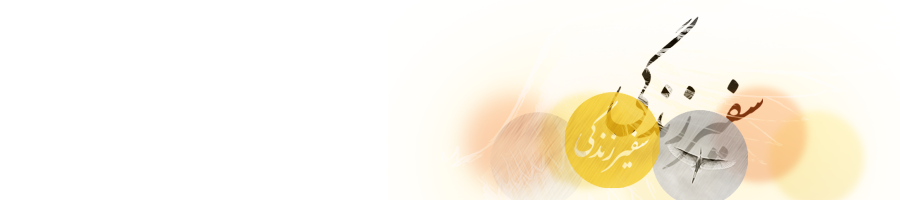
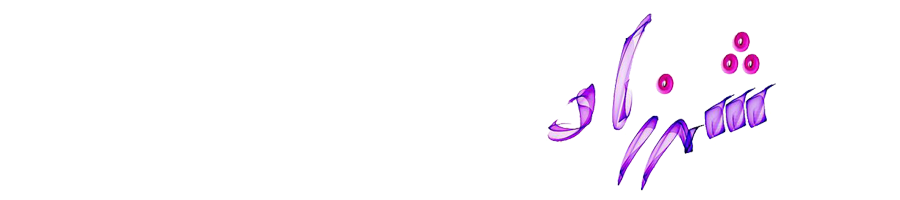
silder

Changed region(s): [[0.4978, 0.06, 0.9644, 1.0]]

diff --git a/admin/slidesList.php b/admin/slidesList.php
@@ -1,0 +1,111 @@
+<?php
+
+require_once '../config/config.php';
+if(!setUserSession(1,1,2))
+{
+    $url = $uri . '/admin/login';
+    header('location: ' . $url);
+    exit;
+}
+$msg = '';
+$ms = '';
+if(isset($_GET['ms']))
+{
+    $ms = $_GET['ms'];
+}
+if(isset($_GET['delID']) && ($_GET['delID'] + 0) > 0)
+{
+    $oneNews = getOnePlanAndNews($_GET['delID'], 1, 1, 1);
+    if($oneNews)
+    {
+        DatabaseHandler::Execute("UPDATE `news` SET `status` = '2' WHERE `news`.`id` = " . $_GET['delID']);
+        $ga = DatabaseHandler::GetAll("SELECT * FROM `gallery` WHERE `catID` =1 AND `gForID` = " . $_GET['delID'] . " AND `status` =1");
+        if($ga)
+        {
+            for($i = 0; $i < count($ga); $i++)
+            {
+                updateOneFieldFromTable('gallery', 'status', 2, $ga[$i]['id']);
+            }
+        }
+        $ms = 1;
+        header('location: newsList?ms=1');
+        exit;
+    }
+    else
+    {
+        header('location: newsList');
+        exit;
+    }
+}
+$news = getAllNewsWithstatus(1);
+if($news)
+{
+    $msg = 1;
+}
+else
+{
+    $msg = 2;
+}
+
+
+include 'header.php';
+
+?>
+
+<script type="text/javascript">
+function confirmDel(id)
+{
+    if(confirm('آیا مایل به حذف این خبر می باشید؟'))
+    {
+        window.location = "<?php echo $uri; ?>/admin/newsList?delID=" + id;
+    }
+}
+</script>
+
+<div class="contentMain" style="min-height: 900px; background: #ECF4FC;">
+    <div style="font-family: 'Yekan'; margin-right: 10px; margin-top: 15px; font-size: 13px;">ویرایش اخبار</div>
+    <div style="width: 100%; height: 2px; background: #E07626; margin-top: 5px;"></div>
+    <br>
+        <!--<div class="alert alert-success" style="font-family: 'Yekan'; width: 60%; margin: 0 auto;">خبر مورد نظر با موفقیت ثبت گردید.</div>-->
+    <?php if($ms == 1){ ?>
+        <div class="alert alert-success" style="font-family: 'Yekan'; width: 60%; margin: 0 auto;">خبر مورد نظر با موفقیت حذف گردید.</div>
+    <?php } ?>
+    <?php if($msg == 2){ ?>
+        <div class="alert alert-danger" style="font-family: 'Yekan'; width: 60%; margin: 0 auto;">تاکنون هیچ خبری درج نگردیده است.</div>
+    <?php } ?>
+    <div style="width: 920px; margin-right: 20px; margin-top: 20px;">
+        <?php if($msg == 1){ ?>
+            <table class="table table-hover" style="direction: rtl;">
+                <thead>
+                  <tr style="direction: rtl;">
+                    <th style="text-align: right; width: 40px;" class="tableExtra">#</th>
+                    <th style="text-align: right; width: 500px;" class="tableExtra">تیتر خبر</th>
+                    <th style="text-align: right; width: 100px;" class="tableExtra">تاریخ درج</th>
+                    <th style="text-align: right; width: 100px;" class="tableExtra">تعداد بازدید</th>
+                    <th style="text-align: right; width: 100px;" class="tableExtra">عملیات</th>
+                  </tr>
+                </thead>
+                <tbody>
+                  <?php $e = 1; for($i = 0; $i < count($news); $i++){ ?>
+                      <tr>
+                        <td style="text-align: right; width: 40px;" class="tableExtra"><?php echo $e; $e++; ?></td>
+                        <td style="text-align: right; width: 500px;" class="tableExtra"><?php echo $news[$i]['title']; ?></td>
+                        <td style="text-align: right; width: 100px;" class="tableExtra"><?php echo pdate('d F Y', $news[$i]['date']); ?></td>
+                        <td style="text-align: right; width: 100px;" class="tableExtra"><?php echo $news[$i]['view']; ?></td>
+                        <td style="text-align: right; width: 100px;" class="tableExtra">
+                            <a href="editOneNews?id=<?php echo $news[$i]['id']; ?>"><img src="images/edit.png" alt="edit" style="cursor: pointer; margin-left: 5px;"></a>
+                            <img src="images/del2.png" alt="del" style="cursor: pointer;" onclick="confirmDel(<?php echo $news[$i]['id']; ?>);">
+                        </td>
+                      </tr>
+                  <?php } ?>
+                </tbody>
+              </table>
+        <?php } ?>
+    </div>
+    
+    
+</div>
+
+
+<?php include 'footer.php'; ?>
+

diff --git a/admin/addSlide.php b/admin/addSlide.php
@@ -1,0 +1,88 @@
+<?php
+
+require_once '../config/config.php';
+if(!setUserSession(1,1,2))
+{
+    $url = $uri . '/admin/login';
+    header('location: ' . $url);
+    exit;
+}
+$msg = '';
+$title = '';
+
+if(isset($_POST['txtTitle']) && strlen($_POST['txtTitle']) > 5 && isset($_FILES['file']))
+{
+    $title = $_POST['txtTitle'];
+    if($_FILES['file']['error'] < 1)
+    {
+        $fileName = $_FILES['file']['name'];
+        $fileTemp = $_FILES['file']['tmp_name'];
+        $ext = explode('.', $fileName);
+        $ext = $ext[count($ext) - 1];
+        $number = time() * (rand(1,10000));
+        $newName = md5($number) . ".$ext";
+        $u = SITE_ROOT . '/images/upload/' . $newName;
+        $url = '/images/upload/' . $newName;
+        move_uploaded_file($fileTemp, $u);
+        $query = "INSERT INTO `slideshow` (`id`, `picture`, `title`) VALUES (NULL, '" . $url . "', '" . $title . "');";
+        if(DatabaseHandler::Execute($query))
+        {
+            $msg = 1; // ok
+        }
+        else
+        {
+            $msg = 2; // insert error
+        }
+    }
+    else
+    {
+        $msg = 3; // file error
+    }
+}
+
+include 'header.php';
+
+?>
+
+
+<div class="contentMain" style="min-height: 900px; background: #ECF4FC;">
+    <div style="font-family: 'Yekan'; margin-right: 10px; margin-top: 15px; font-size: 13px;">افزودن اسلاید</div>
+    <div style="width: 100%; height: 2px; background: #E07626; margin-top: 5px;"></div>
+    <br>
+    <?php if($msg == 1){ ?>
+        <div class="alert alert-success" style="font-family: 'Yekan'; width: 60%; margin: 0 auto;">اسلاید مورد نظر با موفقیت ثبت گردید.</div>
+    <?php }elseif($msg == 2){ ?>
+        <div class="alert alert-danger" style="font-family: 'Yekan'; width: 60%; margin: 0 auto;">خطایی در ثبت اسلاید به وجود آمده است، لطفا دوباره سعی نمائید.</div>
+    <?php }elseif($msg == 3){ ?>
+        <div class="alert alert-danger" style="font-family: 'Yekan'; width: 60%; margin: 0 auto;">گزینه های مشخص شده را به درستی تکمیل نمائید.</div>
+    <?php } ?>
+    <div style="width: 920px; margin-right: 20px; margin-top: 20px;">
+        <form action="" method="post" name="slideForm" enctype="multipart/form-data">
+        <div style="width: 100px; float: right; font-family: 'Nassim'; font-size: 16px; line-height: 25px;">تیتر اسلاید <span style="color: red;">*</span></div>
+        <div style="float: left; width: 820px;">
+            <input type="text" name="txtTitle" class="txtInput" style="font-family: Tahoma; font-size: 12px; width: 400px;" placeholder="تیتر اسلاید" value="<?php echo $title; ?>" />
+        </div>
+            <div style="clear: both; margin-bottom: 10px;"></div>
+
+        <div style="width: 100px; float: right; font-family: 'Nassim'; font-size: 16px; line-height: 25px;">تصویر اسلاید <span style="color: red;">*</span></div>
+        <div style="float: left; width: 820px;">
+            <input type="file" name="file" style="display: none;" id="file" />
+            <button type="button" class="btn btn-success" style="float: right; font-family: 'Yekan';" onclick="$('#file').click();">انتخاب</button>
+            <div style="direction: rtl; font-family: 'Nassim'; font-size: 16px; margin-right: 65px; margin-top: 3px;">توجه: سایز تصویر باید 800px × 230px باشد.</div>
+        </div>
+        <div style="clear: both; margin-bottom: 10px;"></div>
+
+        <div style="clear: both;"></div>
+        </form>
+        <button type="button" class="btn btn-success" style="float: left; font-family: 'Yekan';" onclick="document.slideForm.submit();">ذخیره اسلاید</button>
+    </div>
+    
+    
+</div>
+<script type="text/javascript">
+        var objCal1 = new AMIB.persianCalendar( 'objCal1', 'pcal1' );
+    </script>
+
+
+<?php include 'footer.php'; ?>
+

diff --git a/index.php b/index.php
@@ -2,6 +2,8 @@
 include_once 'config/config.php';
 
 include 'header.php';
+
+$slideshow = DatabaseHandler::GetAll("SELECT * FROM `slideshow` LIMIT 5; ");
 //index
 if(isset($_GET['login']))
 {
@@ -25,6 +27,7 @@ if(isset($_GET['login']))
     });
  </script>
   <!-- Slider -->
+<?php if (count($slideshow)){ ?>
   <div class="up"></div>
   <div class="center">
     <div class="home-slider home-left-slider home-full-slider">
@@ -32,21 +35,22 @@ if(isset($_GET['login']))
         <div class="slide">
           <div id="feature">
             <div id="panes">
-              <div style="display: none;"> <img src="<?php echo $uri; ?>/images/banner1.png" /></div>
-              <div style="display: none;"> <img src="<?php echo $uri; ?>/images/banner2.png" /></div>
-              <div style="display: none;"> <img src="<?php echo $uri; ?>/images/banner3.png" /></div>
+                <?php for ($i = 0; $i < count($slideshow); $i++){ ?>
+                    <div style="display: none;"> <img src="<?php echo $uri . '/' . $slideshow[$i]['picture']; ?>" title="<?php $slideshow[$i]['title'] ?>" /></div>
+                <?php } ?>
             </div>
             <div id="navi">
               <ul>
-                <li><a href="#"><img src="<?php echo $uri; ?>/images/bullets.png" alt="" border="0" width="12" height="12" style="padding: 0px 1px 0px 1px;" /></a></li>
-                <li><a href="#"><img src="<?php echo $uri; ?>/images/bullets.png" alt="" border="0" width="12" height="12" style="padding: 0px 1px 0px 1px;" /></a></li>
-                <li><a href="#"><img src="<?php echo $uri; ?>/images/bullets.png" alt="" border="0" width="12" height="12" style="padding: 0px 1px 0px 1px;" /></a></li>
+                  <?php for ($i = 0; $i < count($slideshow); $i++){ ?>
+                      <li><a href="#"><img src="<?php echo $uri; ?>/images/bullets.png" alt="" border="0" width="12" height="12" style="padding: 0px 1px 0px 1px;" /></a></li>
+                  <?php } ?>
               </ul>
             </div>
           </div>
         </div>
       </div>
     </div>
+      <?php } ?>
   <!-- End Slider -->
   <!-- Center -->
       <div id="text-up"></div>

diff --git a/header.php b/header.php
@@ -8,7 +8,7 @@ $persianDate = pdate('l d F Y');
 <html xmlns="http://www.w3.org/1999/xhtml">
 <head>
 <meta http-equiv="Content-Type" content="text/html; charset=utf-8" />
-<title>پرتال سفیران زندگی</title>
+<title>فروشگاه شهرزاد</title>
 <link href="<?php echo $uri; ?>/images/favicon.ico" rel="shortcut icon" type="images/favicon" />
 <link href="<?php echo $uri; ?>/css/style.css" rel="stylesheet" type="text/css" media="all" />
 <link href="<?php echo $uri; ?>/css/slide_style.css" rel="stylesheet" type="text/css" media="all" />
@@ -31,13 +31,13 @@ $persianDate = pdate('l d F Y');
     <ul>
       <li><a href="<?php echo $uri; ?>/index" class="subLink">صفحه اصلی</a></li>
       |
-      <li><a href="<?php echo $uri; ?>/plans" class="subLink">طرح ها</a></li>
+      <li><a href="<?php echo $uri; ?>/products" class="subLink">محصولات</a></li>
       |
       <li><a href="<?php echo $uri; ?>/galleries" class="subLink">گالری تصاویر</a></li>
       |
-      <li><a href="<?php echo $uri; ?>/about" class="subLink">درباره سفیران زندگی</a></li>
+      <li><a href="<?php echo $uri; ?>/about" class="subLink">درباره فروشگاه</a></li>
       |
-      <li><a href="<?php echo $uri; ?>/contact" class="subLink">تماس با سفیران زندگی</a></li>
+      <li><a href="<?php echo $uri; ?>/contact" class="subLink">تماس باما</a></li>
     </ul>
   </div>
   <!-- End Header -->

diff --git a/admin/header.php b/admin/header.php
@@ -17,7 +17,7 @@ else
 <!DOCTYPE html>
 <html><head>
 <meta http-equiv="Content-Type" content="text/html; charset=utf-8">
-<title>صفحه مدیریت سایت سفیران زندگی</title>
+<title>صفحه مدیریت فروشگاه شهرزاد</title>
 <meta name="viewport" content="width=device-width">
 <link rel="stylesheet" type="text/css" href="css/bootstrap.css">    
 <link rel="stylesheet" type="text/css" href="css/my.css">    
@@ -43,6 +43,18 @@ else
                 </li>
                 <li>
                     <a href="newsList">ویرایش اخبار</a>
+                </li>
+            </ul>
+        </li>
+
+        <li>
+            <a href="#">اسلایدشو</a>
+            <ul>
+                <li>
+                    <a href="addSlide">افزودن اسلایدشو</a>
+                </li>
+                <li>
+                    <a href="slidesList">ویرایش اسلایدشوها</a>
                 </li>
             </ul>
         </li>
